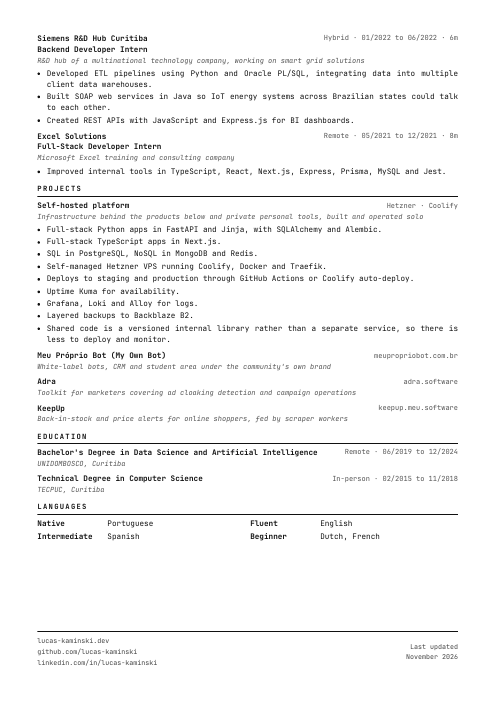
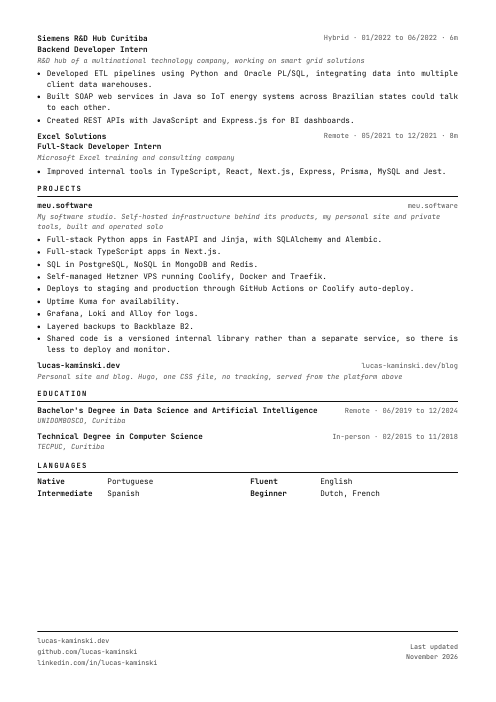
feat: projects com meu.software e o site pessoal, links no padrão
Saem meupropriobot (domínio sem resposta), adra e keepup. Os dois blocos têm
o título com link e a URL à direita.

Changed region(s): [[0.0605, 0.2692, 0.9375, 0.7778], [0.7863, 0.2692, 0.877, 0.3291], [0.877, 0.2692, 0.9073, 0.2991]]

diff --git a/cv.html b/cv.html
@@ -149,8 +149,8 @@ building AI features in production, such as Bento's support chat.</p>
 <h2>PROJECTS</h2>
 
 <div class="entry">
-  <div class="entry-head"><b>Self-hosted platform</b><span>Hetzner &middot; Coolify</span></div>
-  <div class="blurb">Infrastructure behind the products below and private personal tools, built and operated solo</div>
+  <div class="entry-head"><b><a href="https://meu.software">meu.software</a></b><span><a href="https://meu.software">meu.software</a></span></div>
+  <div class="blurb">My software studio. Self-hosted infrastructure behind its products, my personal site and private tools, built and operated solo</div>
   <ul>
     <li>Full-stack Python apps in FastAPI and Jinja, with SQLAlchemy and Alembic.</li>
     <li>Full-stack TypeScript apps in Next.js.</li>
@@ -165,18 +165,8 @@ building AI features in production, such as Bento's support chat.</p>
 </div>
 
 <div class="entry">
-  <div class="entry-head"><b><a href="https://meupropriobot.com.br">Meu Próprio Bot (My Own Bot)</a></b><span><a href="https://meupropriobot.com.br">meupropriobot.com.br</a></span></div>
-  <div class="blurb">White-label bots, CRM and student area under the community's own brand</div>
-</div>
-
-<div class="entry">
-  <div class="entry-head"><b><a href="https://adra.software">Adra</a></b><span><a href="https://adra.software">adra.software</a></span></div>
-  <div class="blurb">Toolkit for marketers covering ad cloaking detection and campaign operations</div>
-</div>
-
-<div class="entry">
-  <div class="entry-head"><b><a href="https://keepup.meu.software">KeepUp</a></b><span><a href="https://keepup.meu.software">keepup.meu.software</a></span></div>
-  <div class="blurb">Back-in-stock and price alerts for online shoppers, fed by scraper workers</div>
+  <div class="entry-head"><b><a href="https://lucas-kaminski.dev">lucas-kaminski.dev</a></b><span><a href="https://lucas-kaminski.dev/blog/">lucas-kaminski.dev/blog</a></span></div>
+  <div class="blurb">Personal site and blog. Hugo, one CSS file, no tracking, served from the platform above</div>
 </div>
 
 <h2>EDUCATION</h2>
